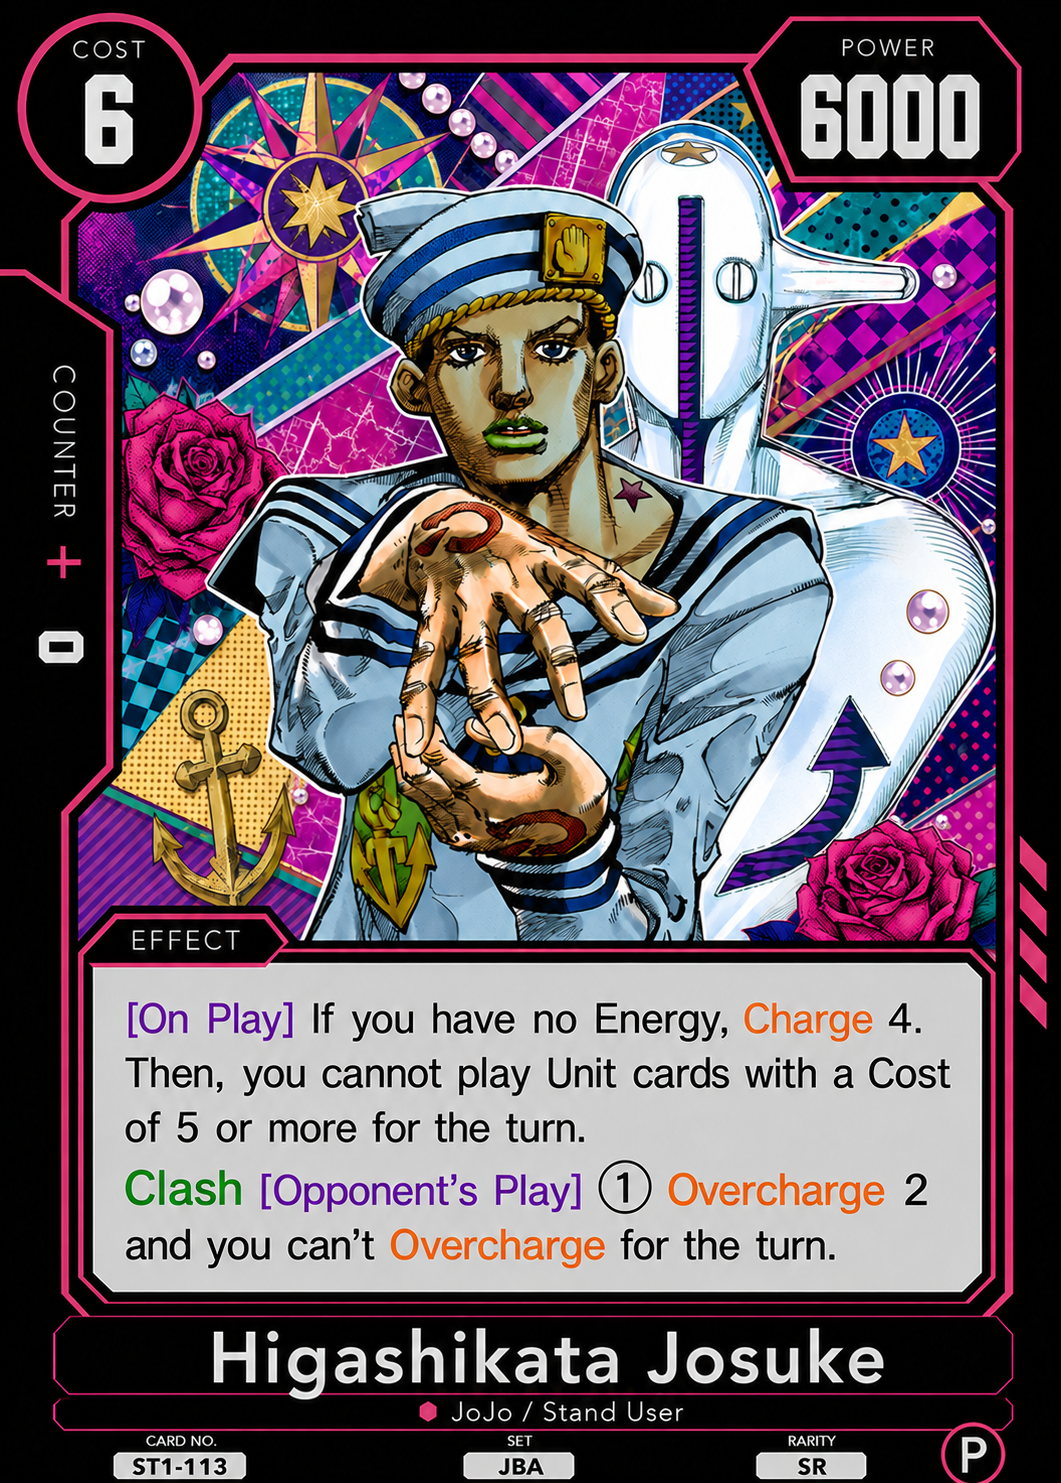
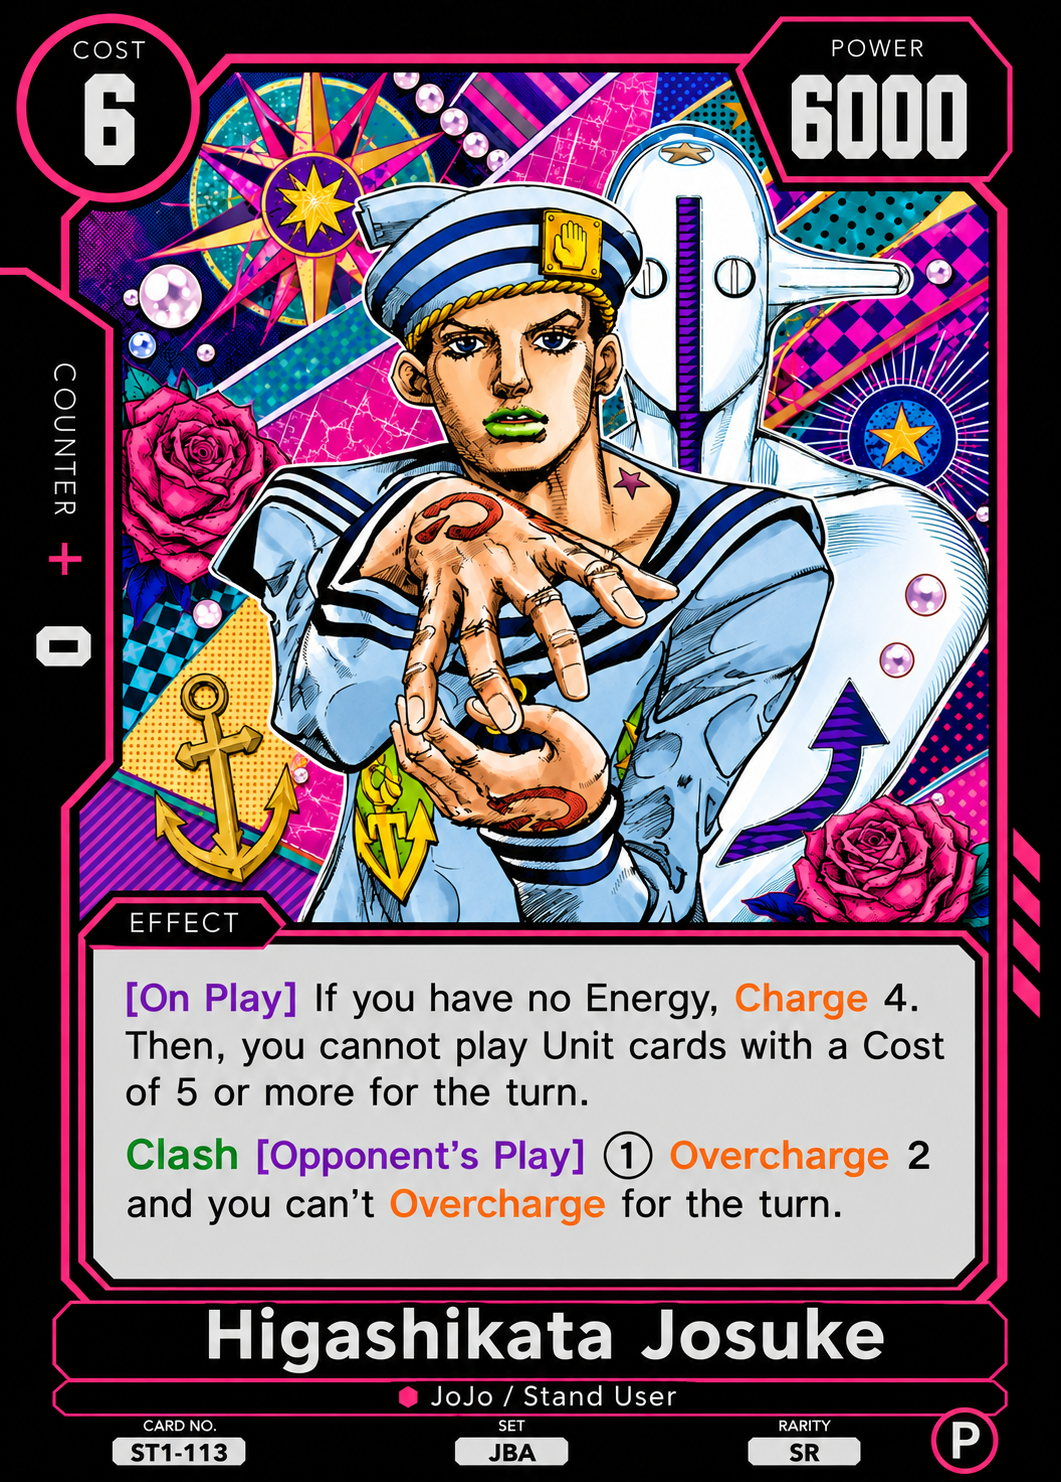
Update ST1 prints, related Jobin and existing Leader artworks

diff --git a/card-text-data.js b/card-text-data.js
@@ -127,8 +127,8 @@ window.SJTCG_CARD_TEXT = {
     "set": "CSM",
     "rarity": "UC",
     "bottom_right_circle": "Y",
-    "effect": "[On Play] Limit 1 If your Leader is \"Control Devil\": Choose up to 1 of your Opponent's Rested Units with 5000 or less Power and set its Power to 0 for as long as it's Rested.",
-    "effect_html": "<span class=\"kw kw-purple\" title=\"Timing window\">[On Play]</span> <span class=\"kw kw-red\" title=\"Limit X\">Limit 1</span> If your Leader is &quot;Control Devil&quot;: Choose up to 1 of your Opponent&#x27;s Rested Units with 5000 or less Power and set its Power to 0 for as long as it&#x27;s Rested.",
+    "effect": "[On Play] Limit 1 If your Leader is \"Control Devil\": Choose up to 1 of your Opponent's Rested Units with 4000 or less Power and set its Power to 0 for as long as it's Rested.",
+    "effect_html": "<span class=\"kw kw-purple\" title=\"Timing window\">[On Play]</span> <span class=\"kw kw-red\" title=\"Limit X\">Limit 1</span> If your Leader is &quot;Control Devil&quot;: Choose up to 1 of your Opponent&#x27;s Rested Units with 4000 or less Power and set its Power to 0 for as long as it&#x27;s Rested.",
     "notes": "",
     "transcription_status": "verified",
     "release": "ST1",
@@ -380,8 +380,8 @@ window.SJTCG_CARD_TEXT = {
     "set": "CSM",
     "rarity": "UC",
     "bottom_right_circle": "Y",
-    "effect": "[Activate: Battle] K.O. 1 of your Units with the \"Fiend\" Trait: Choose up to 1 of your Opponent's Rested Units and give it -1000 Power for the turn.",
-    "effect_html": "<span class=\"kw kw-purple\" title=\"Timing window\">[Activate: Battle]</span> K.O. 1 of your Units with the &quot;Fiend&quot; Trait: Choose up to 1 of your Opponent&#x27;s Rested Units and give it -1000 Power for the turn.",
+    "effect": "[Activate: Battle] K.O. 1 of your Units with the \"Devil\" or \"Fiend\" Trait: Choose up to 1 of your Opponent's Rested Units and give it -1000 Power for the turn.",
+    "effect_html": "<span class=\"kw kw-purple\" title=\"Timing window\">[Activate: Battle]</span> K.O. 1 of your Units with the &quot;Devil&quot; or &quot;Fiend&quot; Trait: Choose up to 1 of your Opponent&#x27;s Rested Units and give it -1000 Power for the turn.",
     "notes": "",
     "transcription_status": "verified",
     "release": "ST1",
@@ -1760,8 +1760,8 @@ window.SJTCG_CARD_TEXT = {
     "set": "SMK",
     "rarity": "L",
     "bottom_right_circle": "B",
-    "effect": "[On Attack] Place 1 \"Amidamaru\" from your hand under this card: Draw 1 card.\n[Activate: Main] (2) Place 2 cards from under this card at the bottom of your Deck in any order: Choose up to 1 of your Opponent's Units and return it to its owner's hand.\nThreshold 2 [Activate: Main] Limit 1 Add 1 card from under this card to your hand: Choose up to 1 of your Opponent's Units with a Cost of 3 or less and place it at the bottom of its owner's Deck.",
-    "effect_html": "<span class=\"kw kw-purple\" title=\"Timing window\">[On Attack]</span> Place 1 &quot;Amidamaru&quot; from your hand under this card: Draw 1 card.<br><span class=\"kw kw-purple\" title=\"Timing window\">[Activate: Main]</span> (2) Place 2 cards from under this card at the bottom of your Deck in any order: Choose up to 1 of your Opponent&#x27;s Units and return it to its owner&#x27;s hand.<br><span class=\"kw kw-orange\" title=\"Threshold X\">Threshold 2</span> <span class=\"kw kw-purple\" title=\"Timing window\">[Activate: Main]</span> <span class=\"kw kw-red\" title=\"Limit X\">Limit 1</span> Add 1 card from under this card to your hand: Choose up to 1 of your Opponent&#x27;s Units with a Cost of 3 or less and place it at the bottom of its owner&#x27;s Deck.",
+    "effect": "[On Attack] Place 1 \"Amidamaru\" from your hand under this card: Draw 1 card.\n[Activate: Main] Once per Turn (2) Place all cards from under this card at the bottom of your Deck in any order and, if you placed 2 or more cards, choose up to 1 Unit and return it to its owner's hand.\nThreshold 2 [Activate: Main] Once per Turn Add 1 card from under this card to your hand: Choose up to 1 of your Opponent's Units with a Cost of 2 or less and place it at the bottom of its owner's Deck.",
+    "effect_html": "<span class=\"kw kw-purple\" title=\"Timing window\">[On Attack]</span> Place 1 &quot;Amidamaru&quot; from your hand under this card: Draw 1 card.<br><span class=\"kw kw-purple\" title=\"Timing window\">[Activate: Main]</span> <span class=\"kw kw-orange\" title=\"Once per Turn\">Once per Turn</span> (2) Place all cards from under this card at the bottom of your Deck in any order and, if you placed 2 or more cards, choose up to 1 Unit and return it to its owner&#x27;s hand.<br><span class=\"kw kw-orange\" title=\"Threshold X\">Threshold 2</span> <span class=\"kw kw-purple\" title=\"Timing window\">[Activate: Main]</span> <span class=\"kw kw-orange\" title=\"Once per Turn\">Once per Turn</span> Add 1 card from under this card to your hand: Choose up to 1 of your Opponent&#x27;s Units with a Cost of 2 or less and place it at the bottom of its owner&#x27;s Deck.",
     "notes": "",
     "transcription_status": "verified",
     "release": "ST1",
@@ -2312,8 +2312,8 @@ window.SJTCG_CARD_TEXT = {
     "set": "JBA",
     "rarity": "L",
     "bottom_right_circle": "P",
-    "effect": "Clash [Activate: Battle] (X) For each (X) used, give this card or 1 of your Units +2000 Power for the battle.\nThreshold 1 Permanent Give this card +1000 Power.",
-    "effect_html": "<span class=\"kw kw-green\" title=\"Clash\">Clash</span> <span class=\"kw kw-purple\" title=\"Timing window\">[Activate: Battle]</span> (X) For each (X) used, give this card or 1 of your Units +2000 Power for the battle.<br><span class=\"kw kw-orange\" title=\"Threshold X\">Threshold 1</span> <span class=\"kw kw-orange\" title=\"Permanent\">Permanent</span> Give this card +1000 Power.",
+    "effect": "Clash [Activate: Battle] If you have 5 or less Overcharged Energy: You may pay (X) and give this card or 1 of your Units +1000 Power for the battle for each (X) paid.\nThreshold 1 Permanent Give this card +1000 Power.",
+    "effect_html": "<span class=\"kw kw-green\" title=\"Clash\">Clash</span> <span class=\"kw kw-purple\" title=\"Timing window\">[Activate: Battle]</span> If you have 5 or less Overcharged Energy: You may pay (X) and give this card or 1 of your Units +1000 Power for the battle for each (X) paid.<br><span class=\"kw kw-orange\" title=\"Threshold X\">Threshold 1</span> <span class=\"kw kw-orange\" title=\"Permanent\">Permanent</span> Give this card +1000 Power.",
     "notes": "",
     "transcription_status": "verified",
     "release": "ST1",
@@ -2473,8 +2473,8 @@ window.SJTCG_CARD_TEXT = {
     "set": "JBA",
     "rarity": "UC",
     "bottom_right_circle": "P",
-    "effect": "[On Play] If your Leader has the \"JoJo\" Trait, Charge 2.\n[End of your Turn] If you Overcharged 2 or more Energy this turn, draw 1 card.",
-    "effect_html": "<span class=\"kw kw-purple\" title=\"Timing window\">[On Play]</span> If your Leader has the &quot;JoJo&quot; Trait, <span class=\"kw kw-orange\" title=\"Charge\">Charge</span> 2.<br><span class=\"kw kw-purple\" title=\"Timing window\">[End of your Turn]</span> If you <span class=\"kw kw-orange\" title=\"Overcharged\">Overcharged</span> 2 or more Energy this turn, draw 1 card.",
+    "effect": "Unique\n[On Play] If your Leader has the \"JoJo\" Trait: Charge 2.\n[End of your Turn] If you Overcharged 2 or more Energy this turn, draw 1 card.",
+    "effect_html": "<span class=\"kw kw-red\" title=\"Unique\">Unique</span><br><span class=\"kw kw-purple\" title=\"Timing window\">[On Play]</span> If your Leader has the &quot;JoJo&quot; Trait: <span class=\"kw kw-orange\" title=\"Charge\">Charge</span> 2.<br><span class=\"kw kw-purple\" title=\"Timing window\">[End of your Turn]</span> If you Overcharged 2 or more Energy this turn, draw 1 card.",
     "notes": "",
     "transcription_status": "verified",
     "release": "ST1",
@@ -2565,8 +2565,8 @@ window.SJTCG_CARD_TEXT = {
     "set": "JBA",
     "rarity": "R",
     "bottom_right_circle": "P",
-    "effect": "[On Play] If you have no Energy, Charge 2.\n[Opponent's Turn] Limit 1 At the start of your Opponent's turn: Place this card in your Drop, Overcharge 1.",
-    "effect_html": "<span class=\"kw kw-purple\" title=\"Timing window\">[On Play]</span> If you have no Energy, <span class=\"kw kw-orange\" title=\"Charge\">Charge</span> 2.<br><span class=\"kw kw-purple\" title=\"Timing window\">[Opponent&#x27;s Turn]</span> <span class=\"kw kw-red\" title=\"Limit X\">Limit 1</span> At the start of your Opponent&#x27;s turn: Place this card in your Drop, <span class=\"kw kw-orange\" title=\"Overcharge\">Overcharge</span> 1.",
+    "effect": "[On Play] If you have no Energy, Charge 2.\n[Opponent’s Turn] Limit 1 At the start of your Opponent’s turn: Place this card in your Drop, Overcharge 1.",
+    "effect_html": "<span class=\"kw kw-purple\" title=\"Timing window\">[On Play]</span> If you have no Energy, <span class=\"kw kw-orange\" title=\"Charge\">Charge</span> 2.<br>[Opponent’s Turn] <span class=\"kw kw-red\" title=\"Limit X\">Limit 1</span> At the start of your Opponent’s turn: Place this card in your Drop, <span class=\"kw kw-orange\" title=\"Overcharge\">Overcharge</span> 1.",
     "notes": "",
     "transcription_status": "verified",
     "release": "ST1",
@@ -2588,8 +2588,8 @@ window.SJTCG_CARD_TEXT = {
     "set": "JBA",
     "rarity": "SR",
     "bottom_right_circle": "P",
-    "effect": "[On Play] If you have no Energy, Charge 4. Then, you cannot play Unit cards with a Cost of 5 or more for the turn.\nClash [Opponent's Play] (1) Overcharge 2 and you can't Overcharge for the turn.",
-    "effect_html": "<span class=\"kw kw-purple\" title=\"Timing window\">[On Play]</span> If you have no Energy, <span class=\"kw kw-orange\" title=\"Charge\">Charge</span> 4. Then, you cannot play Unit cards with a Cost of 5 or more for the turn.<br><span class=\"kw kw-green\" title=\"Clash\">Clash</span> <span class=\"kw kw-purple\" title=\"Timing window\">[Opponent&#x27;s Play]</span> (1) <span class=\"kw kw-orange\" title=\"Overcharge\">Overcharge</span> 2 and you can&#x27;t <span class=\"kw kw-orange\" title=\"Overcharge\">Overcharge</span> for the turn.",
+    "effect": "[On Play] If you have no Energy, Charge 4. Then, you cannot play Unit cards with a Cost of 5 or more for the turn.\nClash [Opponent’s Play] (1) Overcharge 2 and you can’t Overcharge for the turn.",
+    "effect_html": "<span class=\"kw kw-purple\" title=\"Timing window\">[On Play]</span> If you have no Energy, <span class=\"kw kw-orange\" title=\"Charge\">Charge</span> 4. Then, you cannot play Unit cards with a Cost of 5 or more for the turn.<br><span class=\"kw kw-green\" title=\"Clash\">Clash</span> [Opponent’s Play] (1) <span class=\"kw kw-orange\" title=\"Overcharge\">Overcharge</span> 2 and you can’t <span class=\"kw kw-orange\" title=\"Overcharge\">Overcharge</span> for the turn.",
     "notes": "",
     "transcription_status": "verified",
     "release": "ST1",
@@ -2611,8 +2611,8 @@ window.SJTCG_CARD_TEXT = {
     "set": "JBA",
     "rarity": "C",
     "bottom_right_circle": "P",
-    "effect": "Once per Turn If your Unit(s) with the \"Stand User\" Trait would be K.O.'d by your Opponent's skills, you may pay (1) instead.",
-    "effect_html": "<span class=\"kw kw-orange\" title=\"Once per Turn\">Once per Turn</span> If your Unit(s) with the &quot;Stand User&quot; Trait would be K.O.&#x27;d by your Opponent&#x27;s skills, you may pay (1) instead.",
+    "effect": "Limit 1 If your Unit(s) with the \"Stand User\" Trait would be K.O.'d by your Opponent's skill(s), you may pay (1) instead.",
+    "effect_html": "<span class=\"kw kw-red\" title=\"Limit X\">Limit 1</span> If your Unit(s) with the &quot;Stand User&quot; Trait would be K.O.&#x27;d by your Opponent&#x27;s skill(s), you may pay (1) instead.",
     "notes": "",
     "transcription_status": "verified",
     "release": "ST1",
@@ -2634,8 +2634,8 @@ window.SJTCG_CARD_TEXT = {
     "set": "JBA",
     "rarity": "C",
     "bottom_right_circle": "P",
-    "effect": "[On Attack / On Opponent's Attack] (2) Once per Turn Give this card +2000 Power until the end of your Opponent's next turn.",
-    "effect_html": "<span class=\"kw kw-purple\" title=\"Timing window\">[On Attack / On Opponent&#x27;s Attack]</span> (2) <span class=\"kw kw-orange\" title=\"Once per Turn\">Once per Turn</span> Give this card +2000 Power until the end of your Opponent&#x27;s next turn.",
+    "effect": "[On Attack / On Opponent's Attack] Once per Turn (2) Give this card +2000 Power until the end of your Opponent's next turn.",
+    "effect_html": "[On Attack / On Opponent&#x27;s Attack] <span class=\"kw kw-orange\" title=\"Once per Turn\">Once per Turn</span> (2) Give this card +2000 Power until the end of your Opponent&#x27;s next turn.",
     "notes": "",
     "transcription_status": "verified",
     "release": "ST1",
@@ -11165,9 +11165,9 @@ window.SJTCG_CARD_TEXT = {
     "traits": "Stand User",
     "set": "JBA",
     "rarity": "R",
-    "bottom_right_circle": "G",
-    "effect": "[On Play] Limit 1 If your Leader is \"Higashikata Josuke\", Charge 1 and Accelcharge 1. Then, during your next Charge Phase, Charge 1.",
-    "effect_html": "<span class=\"kw kw-purple\" title=\"Timing window\">[On Play]</span> <span class=\"kw kw-red\" title=\"Limit X\">Limit 1</span> If your Leader is &quot;Higashikata Josuke&quot;, <span class=\"kw kw-orange\" title=\"Charge\">Charge</span> 1 and <span class=\"kw kw-orange\" title=\"Accelcharge\">Accelcharge</span> 1. Then, during your next Charge Phase, <span class=\"kw kw-orange\" title=\"Charge\">Charge</span> 1.",
+    "bottom_right_circle": "P",
+    "effect": "[On Play] Limit 1 Place 1 card from your hand in your Drop: If your Leader is “Higashikata Josuke”, Charge 1 and Accelcharge 1. Then, during your next Charge Phase, Charge 1.",
+    "effect_html": "<span class=\"kw kw-purple\" title=\"Timing window\">[On Play]</span> <span class=\"kw kw-red\" title=\"Limit X\">Limit 1</span> Place 1 card from your hand in your Drop: If your Leader is “Higashikata Josuke”, <span class=\"kw kw-orange\" title=\"Charge\">Charge</span> 1 and <span class=\"kw kw-orange\" title=\"Accelcharge\">Accelcharge</span> 1. Then, during your next Charge Phase, <span class=\"kw kw-orange\" title=\"Charge\">Charge</span> 1.",
     "notes": "",
     "transcription_status": "verified",
     "release": "ST4",
@@ -16970,8 +16970,8 @@ window.SJTCG_CARD_TEXT = {
     "set": "JBA",
     "rarity": "L",
     "bottom_right_circle": "P",
-    "effect": "If your Unit(s) with the \"Calamity\" Trait would be removed from the Field by your Opponent's skill or K.O.'d, you may add 1 card from the top of your Life cards to your hand instead.\nThreshold 0 [Activate: Main] Once per Turn (1) Place 1 card from your hand in your Drop: Add the top card of your Deck to your Life.",
-    "effect_html": "If your Unit(s) with the &quot;Calamity&quot; Trait would be removed from the Field by your Opponent&#x27;s skill or K.O.&#x27;d, you may add 1 card from the top of your Life cards to your hand instead.<br><span class=\"kw kw-orange\" title=\"Threshold X\">Threshold 0</span> <span class=\"kw kw-purple\" title=\"Timing window\">[Activate: Main]</span> <span class=\"kw kw-orange\" title=\"Once per Turn\">Once per Turn</span> (1) Place 1 card from your hand in your Drop: Add the top card of your Deck to your Life.",
+    "effect": "If your Unit(s) with the \"Calamity\" Trait would be removed from the field by your Opponent's skill(s), you may add the top of your Life cards to your hand instead.\nThreshold 0 [Activate: Main] Once per Turn (1) Place 1 card from your hand in your Drop: Add the top card of your Deck at the top of your Life.",
+    "effect_html": "If your Unit(s) with the &quot;Calamity&quot; Trait would be removed from the field by your Opponent&#x27;s skill(s), you may add the top of your Life cards to your hand instead.<br><span class=\"kw kw-orange\" title=\"Threshold X\">Threshold 0</span> <span class=\"kw kw-purple\" title=\"Timing window\">[Activate: Main]</span> <span class=\"kw kw-orange\" title=\"Once per Turn\">Once per Turn</span> (1) Place 1 card from your hand in your Drop: Add the top card of your Deck at the top of your Life.",
     "notes": "",
     "transcription_status": "verified",
     "release": "SD2",
@@ -23290,8 +23290,8 @@ window.SJTCG_CARD_TEXT = {
     "set": "JBA",
     "rarity": "P",
     "bottom_right_circle": "P",
-    "effect": "[On Play] Add 1 card from your Life to your hand: Charge 2.\n[Your Turn] Once per Turn When you Charge by your Unit's skill(s): If your Leader is \"Higashikata Josuke\", Charge 1; draw 1 card.",
-    "effect_html": "<span class=\"kw kw-purple\" title=\"Timing window\">[On Play]</span> Add 1 card from your Life to your hand: <span class=\"kw kw-orange\" title=\"Charge\">Charge</span> 2.<br><span class=\"kw kw-purple\" title=\"Timing window\">[Your Turn]</span> <span class=\"kw kw-orange\" title=\"Once per Turn\">Once per Turn</span> When you <span class=\"kw kw-orange\" title=\"Charge\">Charge</span> by your Unit&#x27;s skill(s): If your Leader is &quot;Higashikata Josuke&quot;, <span class=\"kw kw-orange\" title=\"Charge\">Charge</span> 1; draw 1 card.",
+    "effect": "[On Play] Add 1 card from your Life to your hand: Charge 2.\n[Your Turn] Once per Turn When you Charge by your skill(s): If your Leader is “Higashikata Josuke”, Charge 1 or draw 1 card.",
+    "effect_html": "<span class=\"kw kw-purple\" title=\"Timing window\">[On Play]</span> Add 1 card from your Life to your hand: <span class=\"kw kw-orange\" title=\"Charge\">Charge</span> 2.<br><span class=\"kw kw-purple\" title=\"Timing window\">[Your Turn]</span> <span class=\"kw kw-orange\" title=\"Once per Turn\">Once per Turn</span> When you <span class=\"kw kw-orange\" title=\"Charge\">Charge</span> by your skill(s): If your Leader is “Higashikata Josuke”, <span class=\"kw kw-orange\" title=\"Charge\">Charge</span> 1 or draw 1 card.",
     "notes": "",
     "transcription_status": "verified",
     "release": "PUP",

diff --git a/cards-data.js b/cards-data.js
@@ -3309,7 +3309,7 @@ window.SJTCG_CARD_DATA = [
     "cardType": "Main Deck",
     "deckLimit": 1,
     "orientation": "Landscape",
-    "imageVersion": "25f7b7f6493f"
+    "imageVersion": "d2e5926b9530"
   },
   {
     "number": "PUP-016",
@@ -5597,13 +5597,13 @@ window.SJTCG_CARD_DATA = [
     "cardType": "Leader",
     "deckLimit": 1,
     "orientation": "Portrait",
-    "imageVersion": "1b8ff273f111",
+    "imageVersion": "1f95b21859d1",
     "altImages": [
       {
         "label": "ST7 Leader Reprint — Alt Art",
         "image": "images/SD2-001-alt1.jpg",
         "release": "ST7",
-        "imageVersion": "3c0e9fcd1e28"
+        "imageVersion": "b5a73d86d6d5"
       }
     ]
   },
@@ -7857,7 +7857,7 @@ window.SJTCG_CARD_DATA = [
     "cardType": "Main Deck",
     "deckLimit": 4,
     "orientation": "Portrait",
-    "imageVersion": "b4a1d4bfff2c"
+    "imageVersion": "cabb8efbf6e3"
   },
   {
     "number": "ST1-007",
@@ -8005,7 +8005,7 @@ window.SJTCG_CARD_DATA = [
     "cardType": "Main Deck",
     "deckLimit": 4,
     "orientation": "Portrait",
-    "imageVersion": "2a8cb9437bda"
+    "imageVersion": "73524af8fe70"
   },
   {
     "number": "ST1-018",
@@ -8816,13 +8816,13 @@ window.SJTCG_CARD_DATA = [
     "cardType": "Leader",
     "deckLimit": 1,
     "orientation": "Portrait",
-    "imageVersion": "ca3914de423f",
+    "imageVersion": "00b124ad0108",
     "altImages": [
       {
         "label": "ST7 Leader Reprint — Alt Art",
         "image": "images/ST1-077-alt1.jpg",
         "release": "ST7",
-        "imageVersion": "85083280be73"
+        "imageVersion": "e4ac06ee202f"
       }
     ]
   },
@@ -9144,13 +9144,13 @@ window.SJTCG_CARD_DATA = [
     "cardType": "Leader",
     "deckLimit": 1,
     "orientation": "Portrait",
-    "imageVersion": "a6a12915de94",
+    "imageVersion": "be61228ab8ac",
     "altImages": [
       {
         "label": "ST7 Leader Reprint — Alt Art",
         "image": "images/ST1-101-alt1.jpg",
         "release": "ST7",
-        "imageVersion": "d453e3c8b694"
+        "imageVersion": "bede6f0c4672"
       }
     ]
   },
@@ -9188,7 +9188,7 @@ window.SJTCG_CARD_DATA = [
     "cardType": "Main Deck",
     "deckLimit": 4,
     "orientation": "Portrait",
-    "imageVersion": "d9f4033490b4"
+    "imageVersion": "4a49b1afc367"
   },
   {
     "number": "ST1-105",
@@ -9212,7 +9212,7 @@ window.SJTCG_CARD_DATA = [
     "cardType": "Main Deck",
     "deckLimit": 4,
     "orientation": "Portrait",
-    "imageVersion": "f4ba23528544"
+    "imageVersion": "f013ba8ed51f"
   },
   {
     "number": "ST1-107",
@@ -9236,7 +9236,7 @@ window.SJTCG_CARD_DATA = [
     "cardType": "Main Deck",
     "deckLimit": 4,
     "orientation": "Portrait",
-    "imageVersion": "d32cc9c7ae5c"
+    "imageVersion": "d7851ab61b36"
   },
   {
     "number": "ST1-109",
@@ -9292,7 +9292,7 @@ window.SJTCG_CARD_DATA = [
     "cardType": "Main Deck",
     "deckLimit": 4,
     "orientation": "Portrait",
-    "imageVersion": "89e9c7149d00",
+    "imageVersion": "f419f8c3127e",
     "altImages": [
       {
         "label": "ST1 — Alt Art",
@@ -9312,7 +9312,7 @@ window.SJTCG_CARD_DATA = [
     "cardType": "Main Deck",
     "deckLimit": 4,
     "orientation": "Portrait",
-    "imageVersion": "f5ca9ec9e7ec",
+    "imageVersion": "99ca725d603f",
     "altImages": [
       {
         "label": "ST1 — Alt Art",
@@ -9332,7 +9332,7 @@ window.SJTCG_CARD_DATA = [
     "cardType": "Main Deck",
     "deckLimit": 4,
     "orientation": "Portrait",
-    "imageVersion": "c95cbe650c49"
+    "imageVersion": "eaac850ad80b"
   },
   {
     "number": "ST1-115",
@@ -9344,7 +9344,7 @@ window.SJTCG_CARD_DATA = [
     "cardType": "Main Deck",
     "deckLimit": 4,
     "orientation": "Portrait",
-    "imageVersion": "773df8e32ce8"
+    "imageVersion": "f818b390c692"
   },
   {
     "number": "ST1-116",
@@ -9356,7 +9356,7 @@ window.SJTCG_CARD_DATA = [
     "cardType": "Main Deck",
     "deckLimit": 4,
     "orientation": "Portrait",
-    "imageVersion": "7a44ca6b8c05"
+    "imageVersion": "bea1d6cd1d46"
   },
   {
     "number": "ST1-117",
@@ -14468,7 +14468,7 @@ window.SJTCG_CARD_DATA = [
     "cardType": "Main Deck",
     "deckLimit": 4,
     "orientation": "Portrait",
-    "imageVersion": "944a5fcd090e"
+    "imageVersion": "2c22921f3f81"
   },
   {
     "number": "ST5-001",

diff --git a/index.html b/index.html
@@ -214,8 +214,8 @@
     </section>
   </div>
 
-  <script src="cards-data.js?v=4efc894c53e3"></script>
-  <script src="card-text-data.js?v=780d808c5cff"></script>
+  <script src="cards-data.js?v=3ad50293f60d"></script>
+  <script src="card-text-data.js?v=82c775163637"></script>
   <script src="app.js?v=4696e123c018"></script>
 </body>
 </html>
